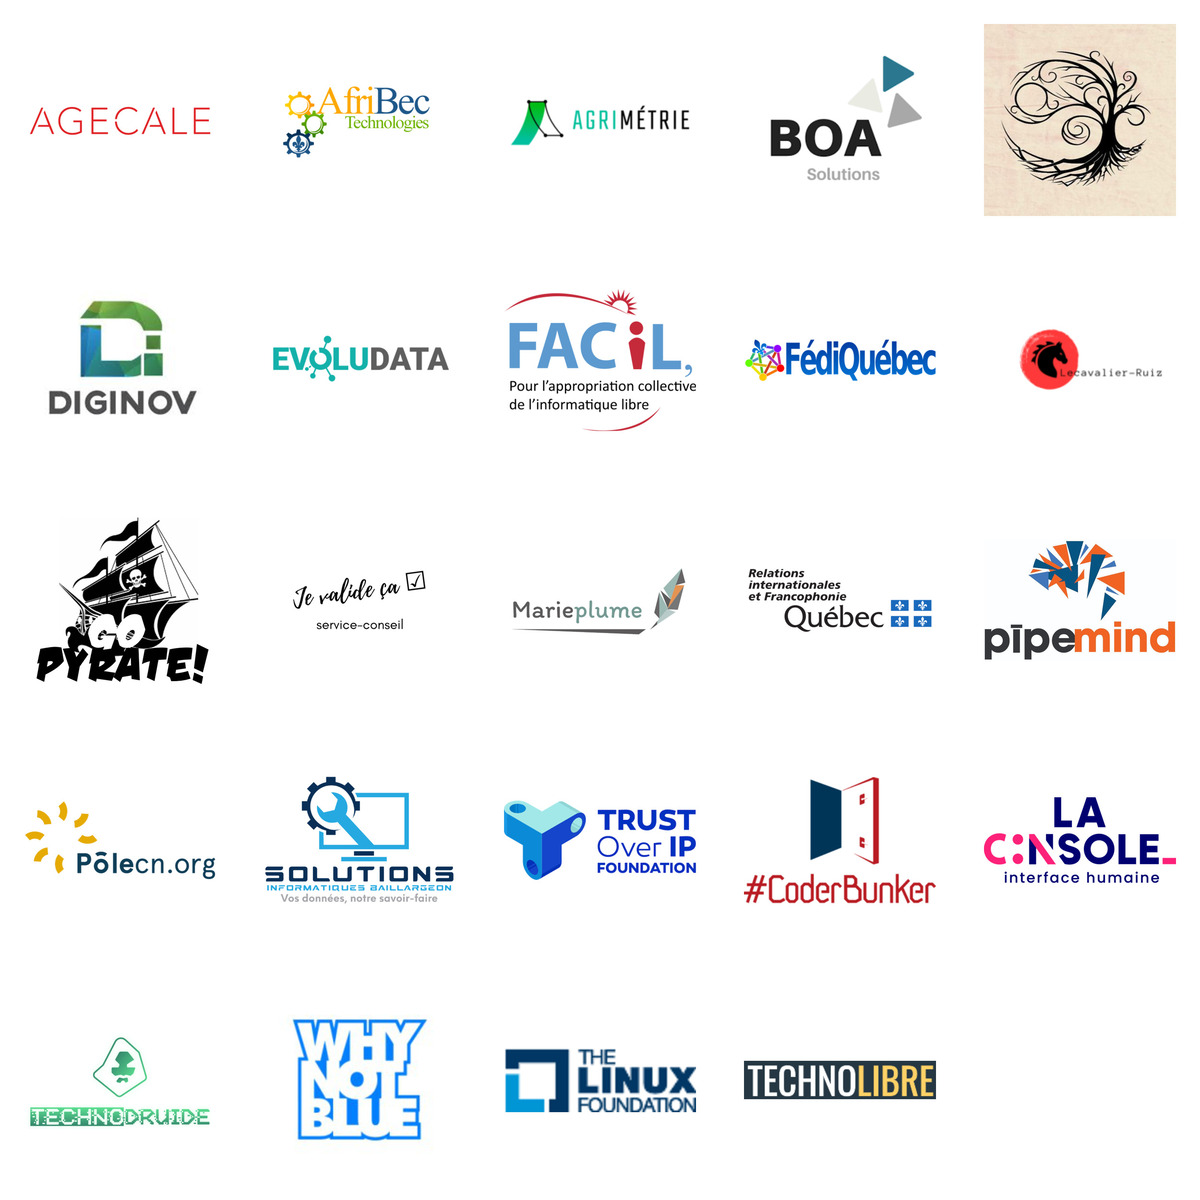
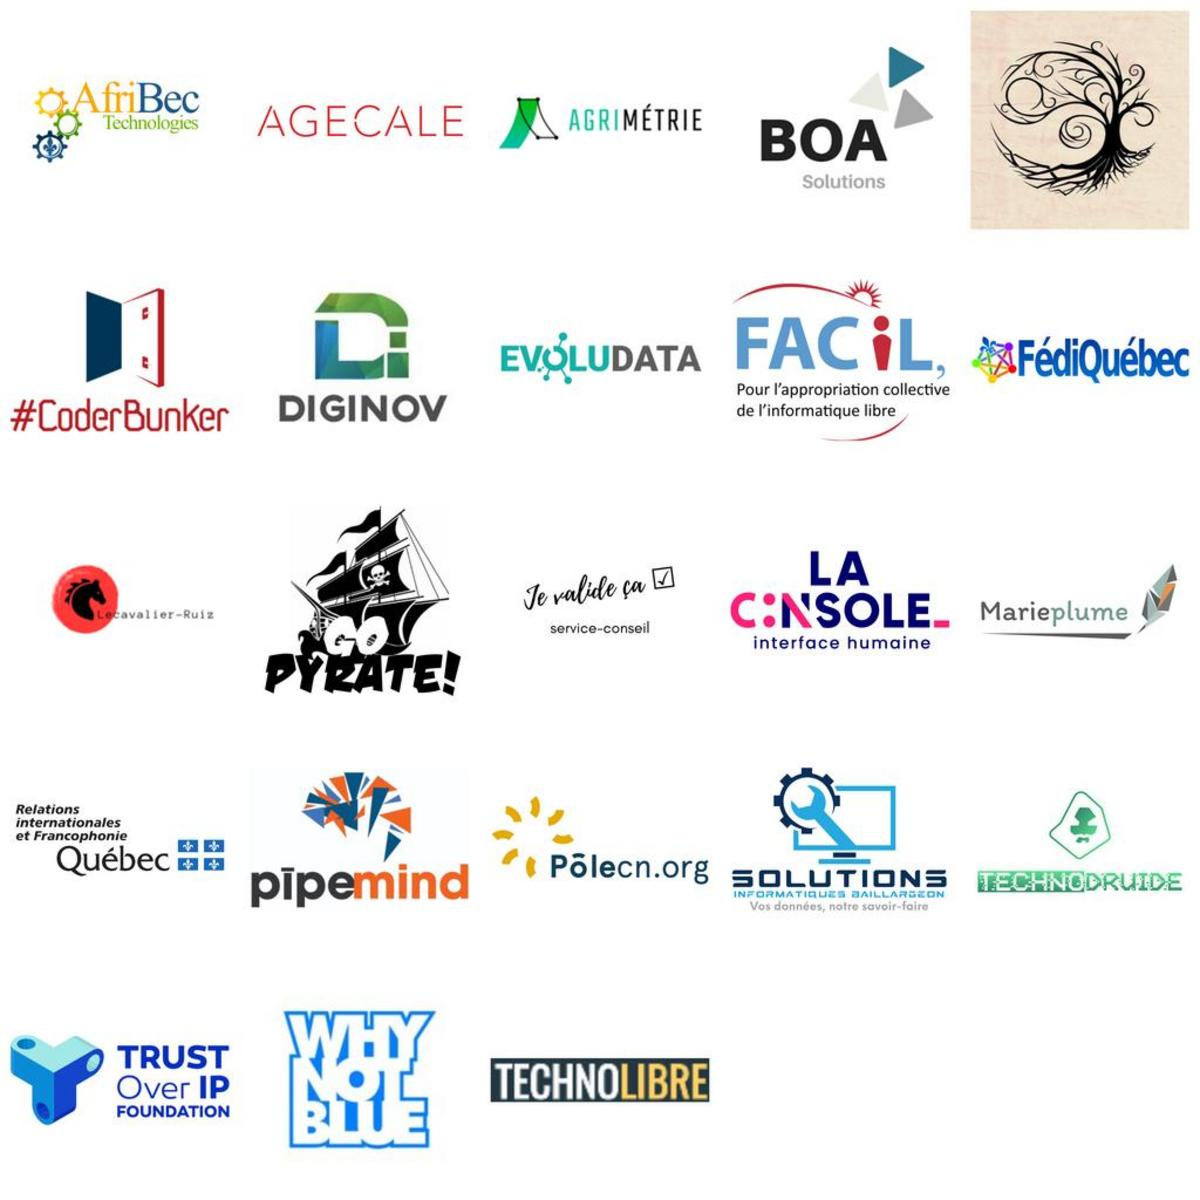
Mise à jour des collages profils et partenaire. Documentation.

diff --git a/README.md b/README.md
@@ -1,1 +1,31 @@
-# images
+# Images de Drave Developpement
+
+
+## Ajout de draveur/draveuse 
+
+Lorsqu'il y a un nouveau ou une nouvelle membre,
+
+  - demander le consentement pour l'utilisation de la photo,
+  - déposer la photo dans le répertoire `profils`,
+  - rafraichir le trombinoscope des draveurs et draveuses:
+
+    ./profils.sh
+ 
+  - publier les nouveaux fichiers,
+  - mettre à jour les documents qui utilisent l'image `collages/profils.jpeg`, notamment le site internet 'https://drave.quebec' et la présentation de Drave.
+
+
+## Ajout de partenaire
+
+Lorsqu'il y a une nouvelle organisation partenaire,
+
+  - demander le consentement pour l'utilisation du logo et documenter sa licence d'utilisation et les droits d'auteur,
+  - déposer l'image du logo dans le répertoire `partenaires`,
+  - rafraichir le trombinoscope des partenaires:
+
+    ./partenaires.sh
+ 
+  - publier les nouveaux fichiers,
+  - mettre à jour les documents qui utilisent les images `collages/partenaires.jpeg`, notamment le site internet 'https://drave.quebec' et la présentation de Drave.
+
+
